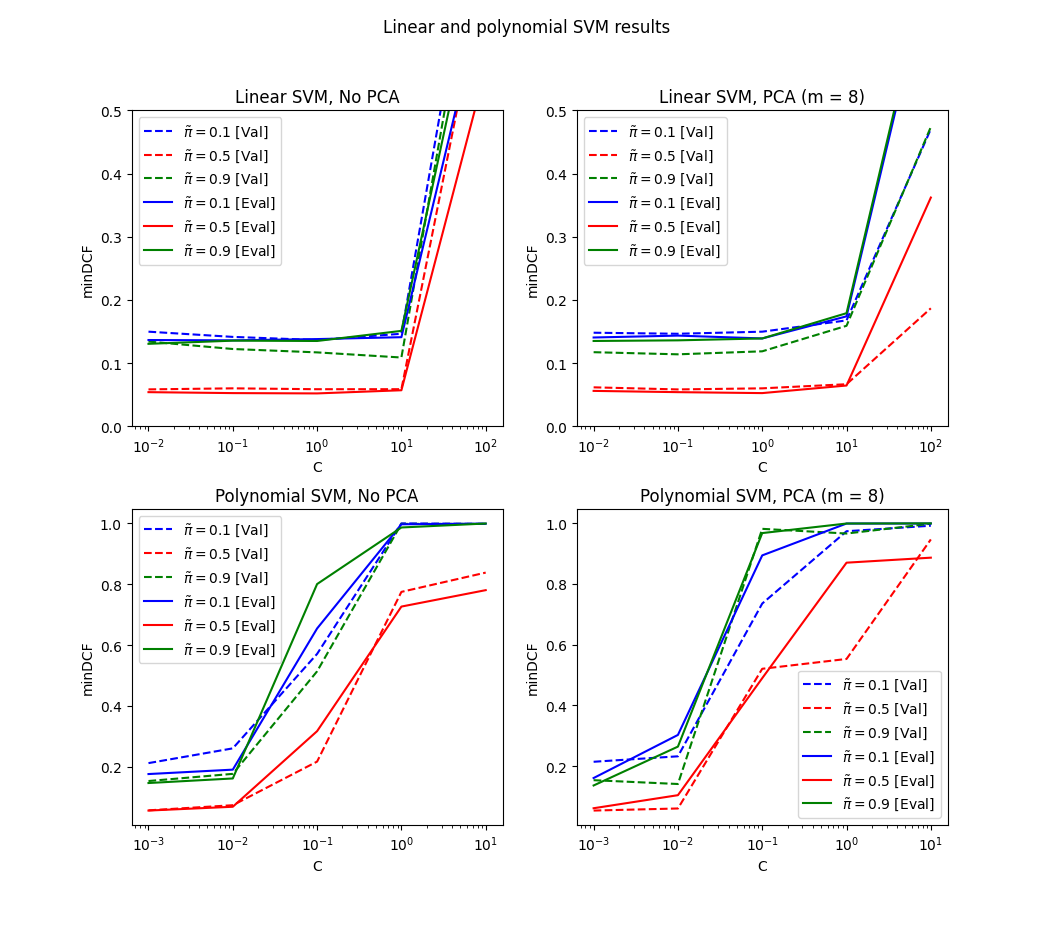
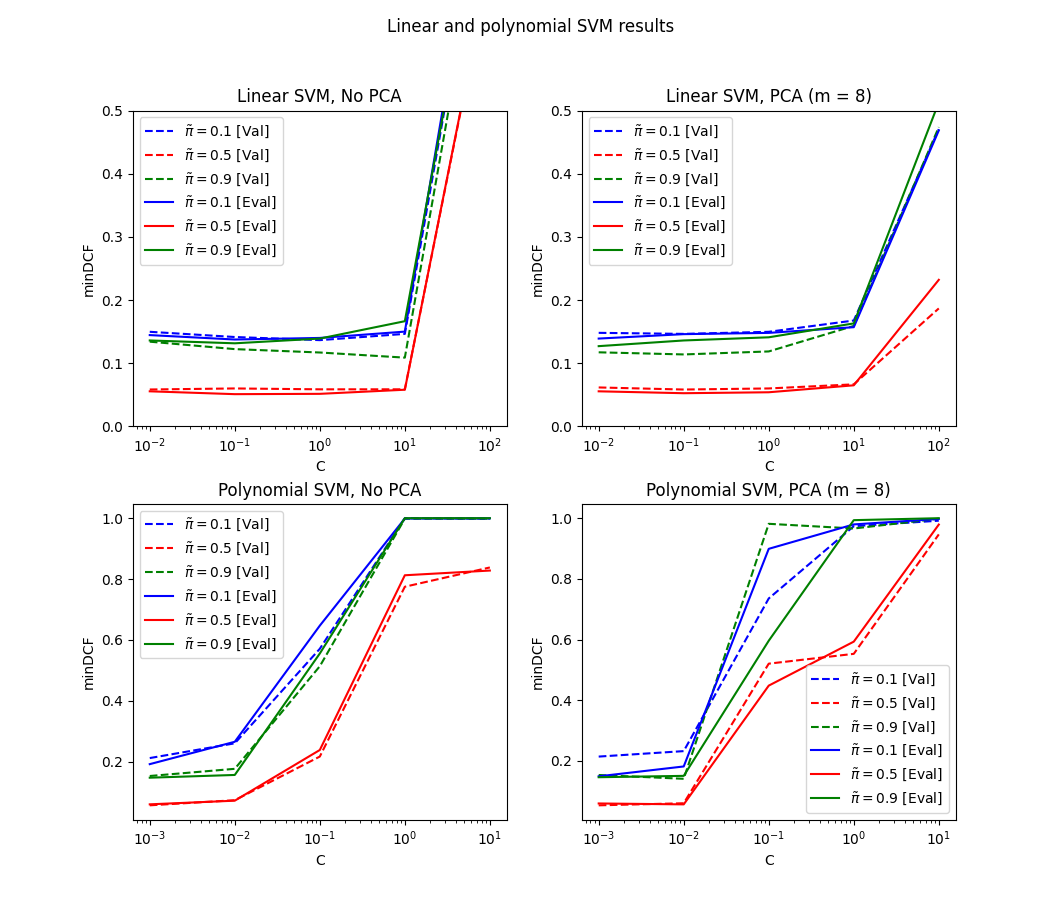
added svm rbf plot

diff --git a/mains/ev_plots.py b/mains/ev_plots.py
@@ -20,12 +20,19 @@ def ev_linear_poly_svm_plot():
     pca8_ptilde_0_1_pt_0_5 = np.array([0.148065, 0.146415, 0.149715, 0.167567, 0.470447])
     pca8_ptilde_0_5_pt_0_5 = np.array([0.061623, 0.058322, 0.060039, 0.066540, 0.186719])
     pca8_ptilde_0_9_pt_0_5 = np.array([0.117245, 0.113878, 0.118629, 0.159033, 0.473731])
+    """# old scores (100%)
     ev_pcaF_ptilde_0_1_pt_0_5 = np.array([0.136500, 0.136000, 0.138000, 0.141000, 0.699000])
     ev_pcaF_ptilde_0_5_pt_0_5 = np.array([0.054000, 0.052500, 0.052000, 0.057000, 0.566000])
     ev_pcaF_ptilde_0_9_pt_0_5 = np.array([0.130500, 0.135500, 0.135000, 0.151000, 0.771000])
     ev_pca8_ptilde_0_1_pt_0_5 = np.array([0.140500, 0.143500, 0.139000, 0.174000, 0.733500])
     ev_pca8_ptilde_0_5_pt_0_5 = np.array([0.056000, 0.054000, 0.052500, 0.064500, 0.362000])
-    ev_pca8_ptilde_0_9_pt_0_5 = np.array([0.135000, 0.136000, 0.139000, 0.179000, 0.746000])
+    ev_pca8_ptilde_0_9_pt_0_5 = np.array([0.135000, 0.136000, 0.139000, 0.179000, 0.746000])"""
+    ev_pcaF_ptilde_0_1_pt_0_5 = np.array([0.144500, 0.137500, 0.140000, 0.150000, 0.939000])
+    ev_pcaF_ptilde_0_5_pt_0_5 = np.array([0.055500, 0.051000, 0.051500, 0.058000, 0.732000])
+    ev_pcaF_ptilde_0_9_pt_0_5 = np.array([0.136000, 0.131500, 0.139000, 0.166500, 0.894000])
+    ev_pca8_ptilde_0_1_pt_0_5 = np.array([0.139000, 0.146000, 0.148000, 0.157000, 0.468500])
+    ev_pca8_ptilde_0_5_pt_0_5 = np.array([0.055500, 0.052500, 0.054000, 0.065000, 0.232000])
+    ev_pca8_ptilde_0_9_pt_0_5 = np.array([0.127000, 0.136000, 0.141000, 0.163000, 0.513000])
 
     # poly scores
     labels2 = [0.001, 0.01, 0.1, 1, 10]
@@ -36,12 +43,20 @@ def ev_linear_poly_svm_plot():
     pca8_ptilde_0_1_c_1 = np.array([0.214071, 0.232073, 0.735374, 0.973597, 0.991749])
     pca8_ptilde_0_5_c_1 = np.array([0.053339, 0.060206, 0.520419, 0.552772, 0.946578])
     pca8_ptilde_0_9_c_1 = np.array([0.153382, 0.140814, 0.981481, 0.966030, 0.998316])
+    """ # old scores (100%)
     ev_pcaF_ptilde_0_5_c_1 = np.array([0.056000, 0.068500, 0.317000, 0.726500, 0.780500])
     ev_pcaF_ptilde_0_1_c_1 = np.array([0.176000, 0.190500, 0.654500, 0.997000, 0.999000])
     ev_pcaF_ptilde_0_9_c_1 = np.array([0.146500, 0.161500, 0.800500, 0.986500, 0.999500])
     ev_pca8_ptilde_0_5_c_1 = np.array([0.061000, 0.104000, 0.489500, 0.870000, 0.886500])
     ev_pca8_ptilde_0_1_c_1 = np.array([0.160500, 0.302500, 0.894000, 0.999000, 0.999000])
-    ev_pca8_ptilde_0_9_c_1 = np.array([0.136000, 0.264000, 0.967500, 0.999000, 0.999500])
+    ev_pca8_ptilde_0_9_c_1 = np.array([0.136000, 0.264000, 0.967500, 0.999000, 0.999500])"""
+    ev_pcaF_ptilde_0_5_c_1 = np.array([0.060000, 0.072000, 0.238500, 0.812500, 0.828000])
+    ev_pcaF_ptilde_0_1_c_1 = np.array([0.192000, 0.265500, 0.647000, 0.999000, 0.999500])
+    ev_pcaF_ptilde_0_9_c_1 = np.array([0.147500, 0.156500, 0.555500, 1.000000, 1.000000])
+    ev_pca8_ptilde_0_5_c_1 = np.array([0.059500, 0.056500, 0.448000, 0.593000, 0.979000])
+    ev_pca8_ptilde_0_1_c_1 = np.array([0.149000, 0.181500, 0.899000, 0.979500, 0.997500])
+    ev_pca8_ptilde_0_9_c_1 = np.array([0.146000, 0.150500, 0.596000, 0.993500, 1.000000])
+
 
     plt.figure()
     plt.suptitle("Linear and polynomial SVM results")
@@ -100,56 +115,47 @@ def ev_linear_poly_svm_plot():
     plt.show()
 
 
-def radial_svm_plot():
-    C = np.array([0.01, 0.1, 1, 10, 100])
-    labels = [0.01, 0.1, 1, 10, 100]
+def ev_radial_svm_plot():
+    C = [0.01, 0.1, 1, 10, 100]
     pcaF_ptilde_0_1_l_0_01 = np.array([0.335134, 0.161266, 0.170417, 0.193519, 0.191869])
     pcaF_ptilde_0_5_l_0_01 = np.array([0.124862, 0.069740, 0.048221, 0.060106, 0.060106])
     pcaF_ptilde_0_9_l_0_01 = np.array([0.305381, 0.154582, 0.128430, 0.143581, 0.141898])
     pca8_ptilde_0_1_l_0_01 = np.array([0.351935, 0.194569, 0.181368, 0.260126, 0.292079])
     pca8_ptilde_0_5_l_0_01 = np.array([0.126379, 0.068390, 0.060173, 0.063373, 0.068390])
     pca8_ptilde_0_9_l_0_01 = np.array([0.305197, 0.181401, 0.188436, 0.220905, 0.213088])
+    ev_pcaF_ptilde_0_1_l_0_01 = np.array([0.332000, 0.171000, 0.112000, 0.147000, 0.145500])
+    ev_pcaF_ptilde_0_5_l_0_01 = np.array([0.109000, 0.058000, 0.050000, 0.055000, 0.055000])
+    ev_pcaF_ptilde_0_9_l_0_01 = np.array([0.255000, 0.169000, 0.129000, 0.167500, 0.167500])
+    ev_pca8_ptilde_0_1_l_0_01 = np.array([0.312500, 0.168000, 0.135500, 0.190500, 0.226500])
+    ev_pca8_ptilde_0_5_l_0_01 = np.array([0.106000, 0.059500, 0.053500, 0.070500, 0.082000])
+    ev_pca8_ptilde_0_9_l_0_01 = np.array([0.258500, 0.186000, 0.154000, 0.204000, 0.244500])
 
     plt.figure()
-    plt.suptitle("RBF SVM results, varing C")
-    plt.subplot(2, 2, 1)
-    plt.title("No PCA, "+r"""$\gamma = 0.1$""")
-    plt.semilogx(C, pcaF_ptilde_0_1_l_0_1, 'b', label=r"""$\~{\pi} = 0.1$""")
-    plt.semilogx(C, pcaF_ptilde_0_5_l_0_1, 'r', label=r"""$\~{\pi} = 0.5$""")
-    plt.semilogx(C, pcaF_ptilde_0_9_l_0_1, 'g', label=r"""$\~{\pi} = 0.9$""")
-    plt.xlabel("C")
-    plt.ylabel("minDCF")
-    plt.xticks(labels)
-    plt.ylim()
-    plt.legend()
-    plt.subplot(2, 2, 2)
-    plt.title("PCA (m = 8), "+r"""$\gamma = 0.1$""")
-    plt.semilogx(C, pca8_ptilde_0_1_l_0_1, 'b', label=r"""$\~{\pi} = 0.1$""")
-    plt.semilogx(C, pca8_ptilde_0_5_l_0_1, 'r', label=r"""$\~{\pi} = 0.5$""")
-    plt.semilogx(C, pca8_ptilde_0_9_l_0_1, 'g', label=r"""$\~{\pi} = 0.9$""")
-    plt.xlabel("C")
-    plt.ylabel("minDCF")
-    plt.xticks(labels)
-    plt.ylim()
-    plt.legend()
-    plt.subplot(2, 2, 3)
+    plt.suptitle("RBF SVM results")
+    plt.subplot(1, 2, 1)
     plt.title("No PCA, "+r"""$\gamma = 0.01$""")
-    plt.semilogx(C, pcaF_ptilde_0_1_l_0_01, 'b', label=r"""$\~{\pi} = 0.1$""")
-    plt.semilogx(C, pcaF_ptilde_0_5_l_0_01, 'r', label=r"""$\~{\pi} = 0.5$""")
-    plt.semilogx(C, pcaF_ptilde_0_9_l_0_01, 'g', label=r"""$\~{\pi} = 0.9$""")
+    plt.semilogx(C, pcaF_ptilde_0_1_l_0_01, 'b--', label=r"""$\~{\pi} = 0.1$ [Val]""")
+    plt.semilogx(C, pcaF_ptilde_0_5_l_0_01, 'r--', label=r"""$\~{\pi} = 0.5$ [Val]""")
+    plt.semilogx(C, pcaF_ptilde_0_9_l_0_01, 'g--', label=r"""$\~{\pi} = 0.9$ [Val]""")
+    plt.semilogx(C, ev_pcaF_ptilde_0_1_l_0_01, 'b', label=r"""$\~{\pi} = 0.1$ [Eval]""")
+    plt.semilogx(C, ev_pcaF_ptilde_0_5_l_0_01, 'r', label=r"""$\~{\pi} = 0.5$ [Eval]""")
+    plt.semilogx(C, ev_pcaF_ptilde_0_9_l_0_01, 'g', label=r"""$\~{\pi} = 0.9$ [Eval]""")
     plt.xlabel("C")
     plt.ylabel("minDCF")
-    plt.xticks(labels)
+    plt.xticks(C)
     plt.ylim()
     plt.legend()
-    plt.subplot(2, 2, 4)
+    plt.subplot(1, 2, 2)
     plt.title("PCA (m = 8), "+r"""$\gamma = 0.01$""")
-    plt.semilogx(C, pca8_ptilde_0_1_l_0_01, 'b', label=r"""$\~{\pi} = 0.1$""")
-    plt.semilogx(C, pca8_ptilde_0_5_l_0_01, 'r', label=r"""$\~{\pi} = 0.5$""")
-    plt.semilogx(C, pca8_ptilde_0_9_l_0_01, 'g', label=r"""$\~{\pi} = 0.9$""")
+    plt.semilogx(C, pca8_ptilde_0_1_l_0_01, 'b--', label=r"""$\~{\pi} = 0.1$ [Val]""")
+    plt.semilogx(C, pca8_ptilde_0_5_l_0_01, 'r--', label=r"""$\~{\pi} = 0.5$ [Val]""")
+    plt.semilogx(C, pca8_ptilde_0_9_l_0_01, 'g--', label=r"""$\~{\pi} = 0.9$ [Val]""")
+    plt.semilogx(C, ev_pca8_ptilde_0_1_l_0_01, 'b', label=r"""$\~{\pi} = 0.1$ [Eval]""")
+    plt.semilogx(C, ev_pca8_ptilde_0_5_l_0_01, 'r', label=r"""$\~{\pi} = 0.5$ [Eval]""")
+    plt.semilogx(C, ev_pca8_ptilde_0_9_l_0_01, 'g', label=r"""$\~{\pi} = 0.9$ [Eval]""")
     plt.xlabel("C")
     plt.ylabel("minDCF")
-    plt.xticks(labels)
+    plt.xticks(C)
     plt.ylim()
     plt.legend()
     plt.show()
@@ -343,4 +349,6 @@ def gmm_plot_main():
 
 if __name__ == '__main__':
     # quad_lr_plot()
-    gmm_plot_main()
+    # gmm_plot_main()
+    # ev_linear_poly_svm_plot()
+    ev_radial_svm_plot()

diff --git a/mains/plots.py b/mains/plots.py
@@ -7,7 +7,7 @@ import matplotlib.pyplot as plt
 import load
 import optimal_decisions
 import preprocessing
-from ev_plots import *
+
 
 def linear_svm_plot():
     C = np.array([0.01, 0.1, 1, 10])
@@ -468,4 +468,4 @@ if __name__ == '__main__':
     # linear_svm_plot()
     # quadratic_svm_plot()
     # radial_svm_plot()
-    ev_linear_poly_svm_plot()
+
